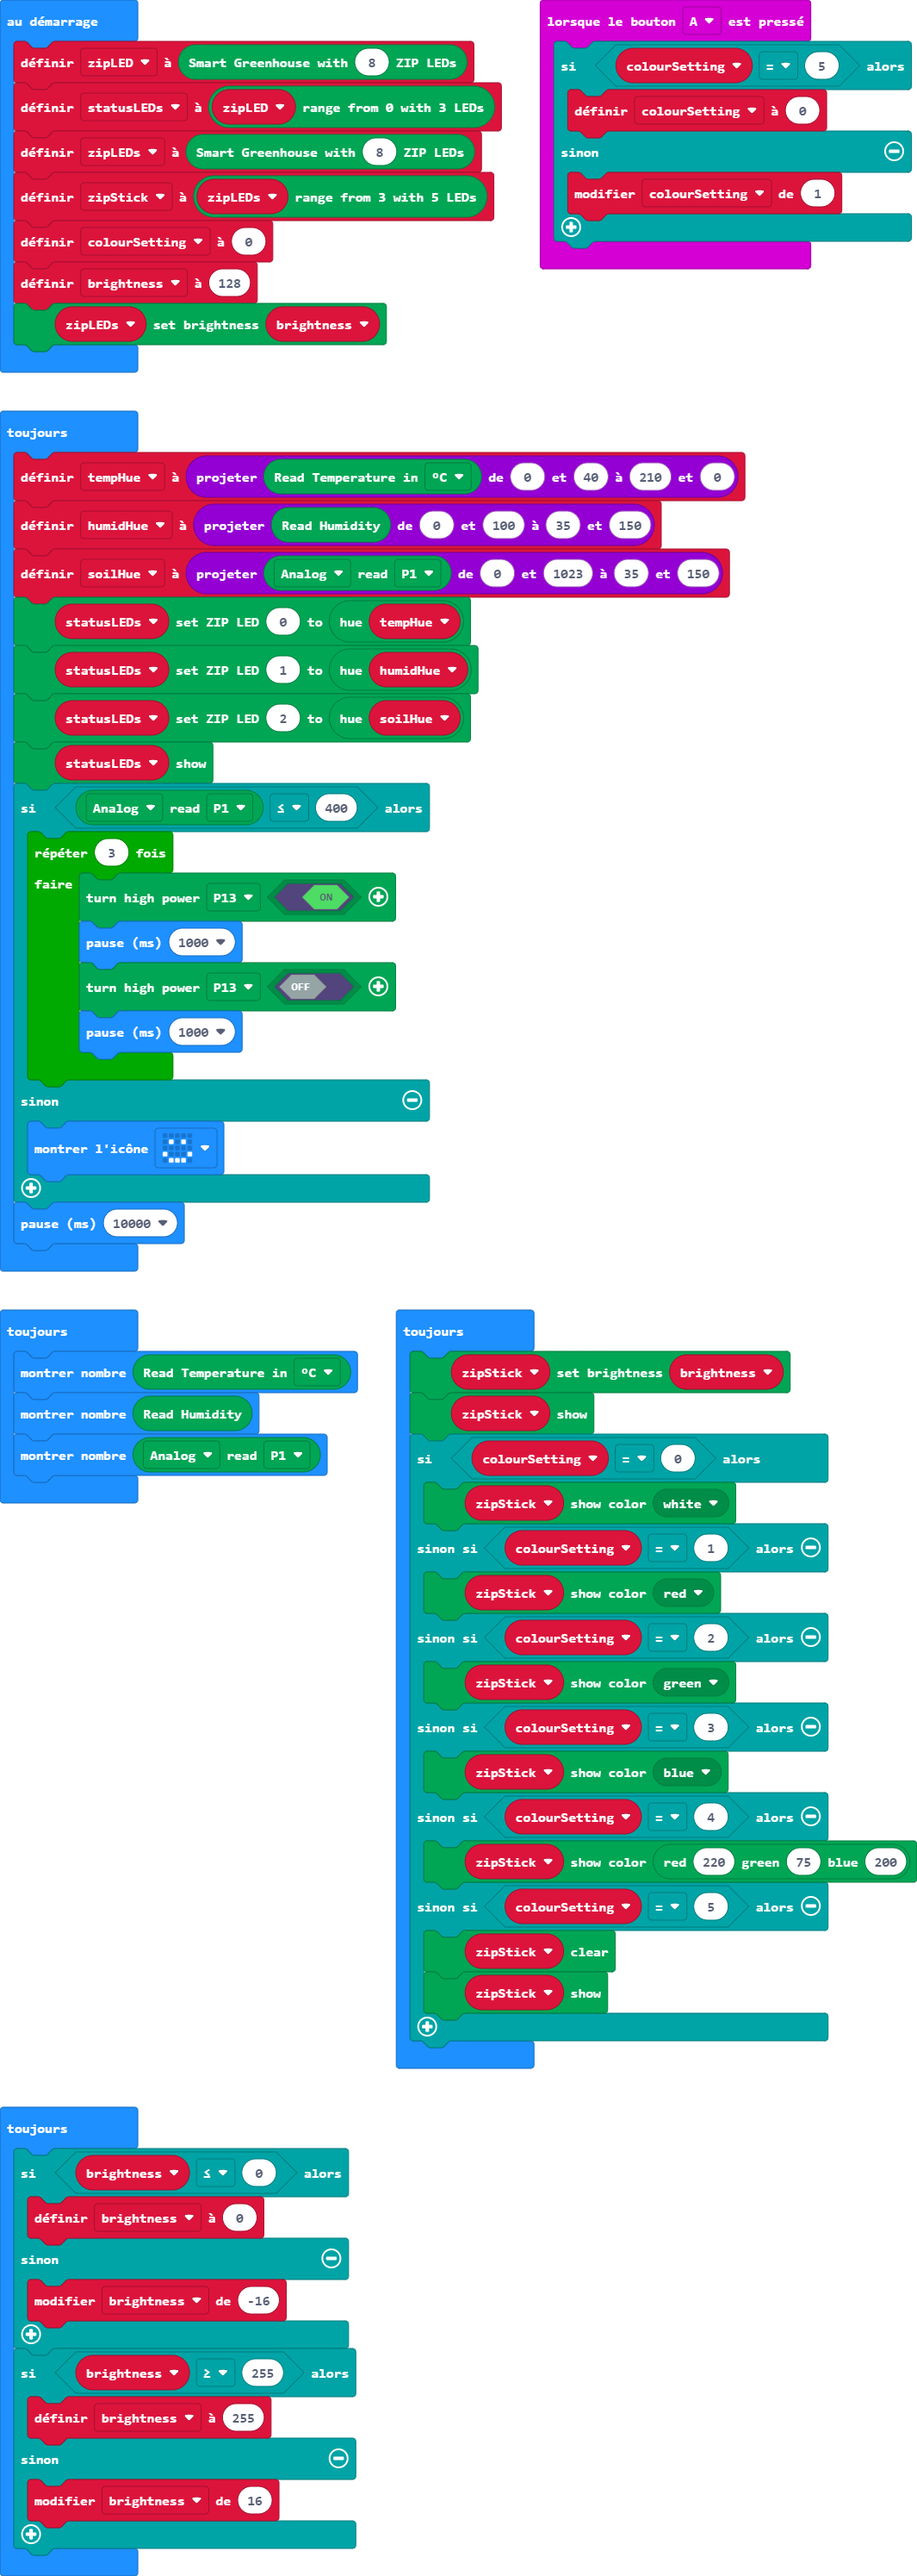
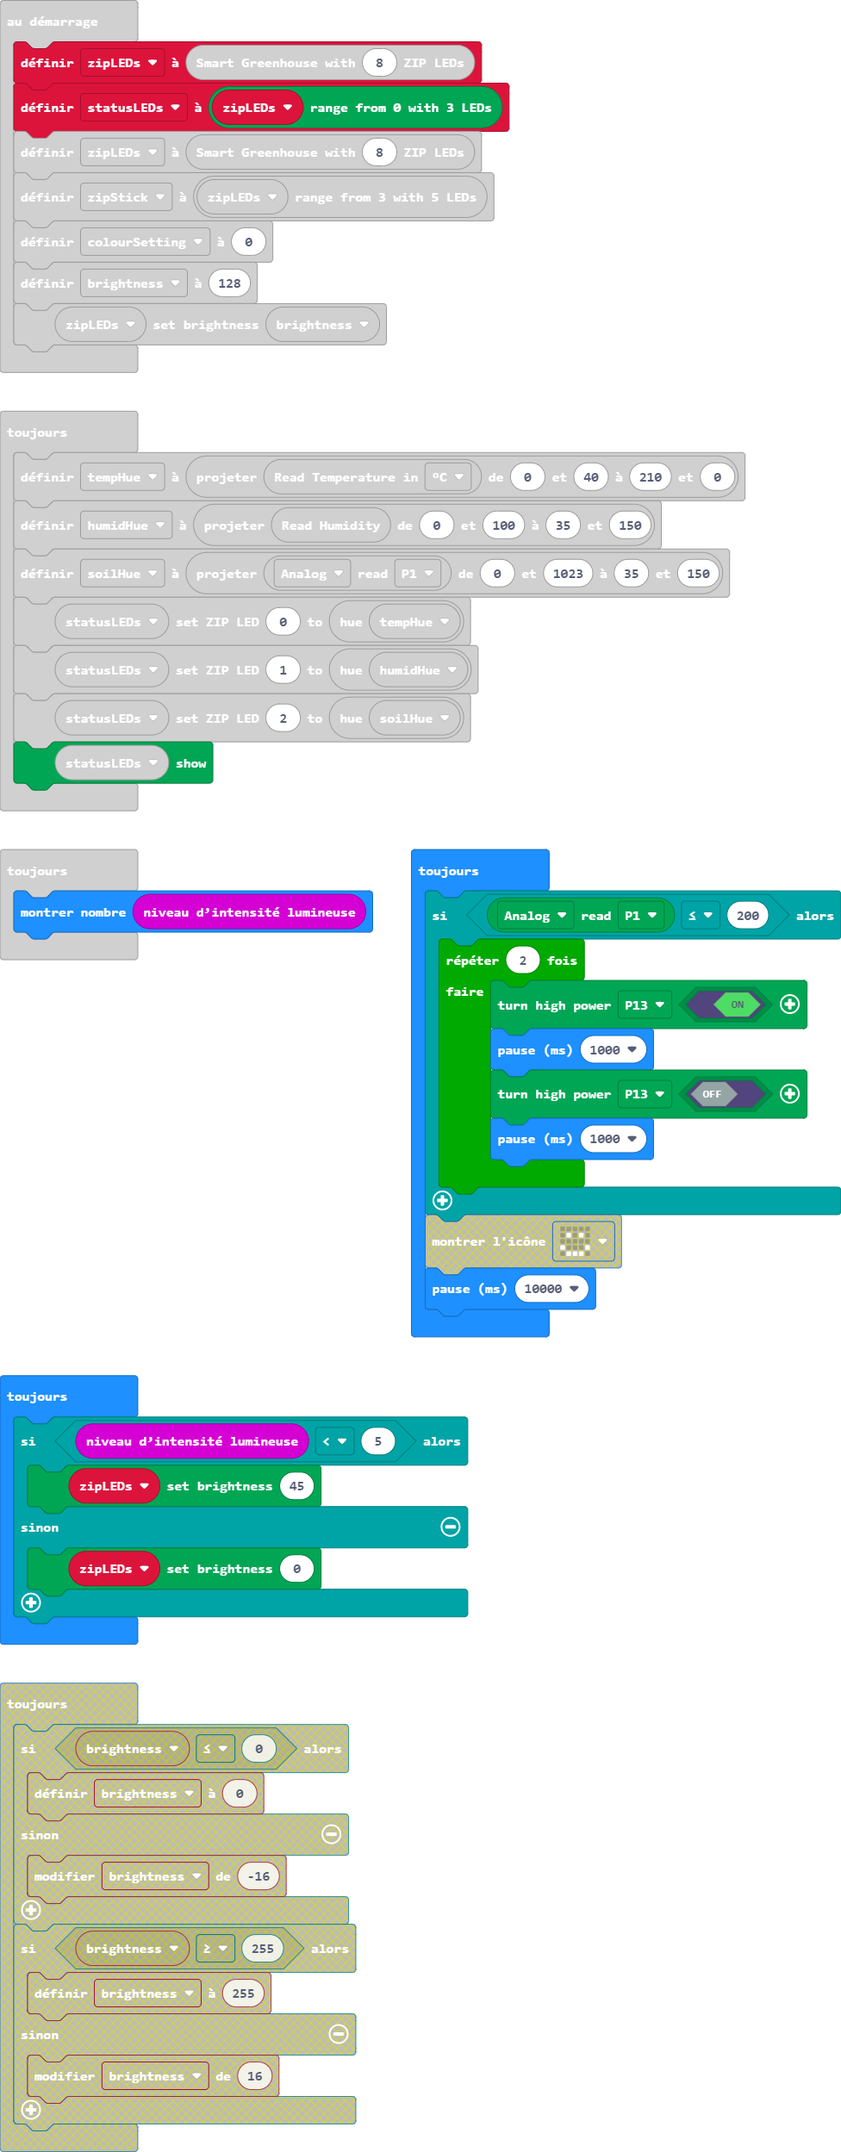
Mise à jour main.blocks, main.ts

diff --git a/main.ts b/main.ts
@@ -9,9 +9,9 @@ let soilHue = 0
 let humidHue = 0
 let tempHue = 0
 let colourSetting = 0
-let zipLED = kitronik_smart_greenhouse.createGreenhouseZIPDisplay(8)
-let statusLEDs = zipLED.statusLedsRange()
 let zipLEDs = kitronik_smart_greenhouse.createGreenhouseZIPDisplay(8)
+let statusLEDs = zipLEDs.statusLedsRange()
+zipLEDs = kitronik_smart_greenhouse.createGreenhouseZIPDisplay(8)
 let zipStick = zipLEDs.zipStickRange()
 colourSetting = 0
 let brightness = 128
@@ -24,22 +24,9 @@ basic.forever(function () {
     statusLEDs.setZipLedColor(1, kitronik_smart_greenhouse.hueToRGB(humidHue))
     statusLEDs.setZipLedColor(2, kitronik_smart_greenhouse.hueToRGB(soilHue))
     statusLEDs.show()
-    if (kitronik_smart_greenhouse.readIOPin(kitronik_smart_greenhouse.PinType.analog, kitronik_smart_greenhouse.IOPins.p1) <= 400) {
-        for (let index = 0; index < 3; index++) {
-            kitronik_smart_greenhouse.controlHighPowerPin(kitronik_smart_greenhouse.HighPowerPins.pin13, kitronik_smart_greenhouse.onOff(true))
-            basic.pause(1000)
-            kitronik_smart_greenhouse.controlHighPowerPin(kitronik_smart_greenhouse.HighPowerPins.pin13, kitronik_smart_greenhouse.onOff(false))
-            basic.pause(1000)
-        }
-    } else {
-        basic.showIcon(IconNames.Happy)
-    }
-    basic.pause(10000)
 })
 basic.forever(function () {
-    basic.showNumber(kitronik_smart_greenhouse.temperature(TemperatureUnitList.C))
-    basic.showNumber(kitronik_smart_greenhouse.humidity())
-    basic.showNumber(kitronik_smart_greenhouse.readIOPin(kitronik_smart_greenhouse.PinType.analog, kitronik_smart_greenhouse.IOPins.p1))
+    basic.showNumber(input.lightLevel())
 })
 basic.forever(function () {
     zipStick.setBrightness(brightness)
@@ -60,14 +47,20 @@ basic.forever(function () {
     }
 })
 basic.forever(function () {
-    if (brightness <= 0) {
-        brightness = 0
-    } else {
-        brightness += -16
+    if (kitronik_smart_greenhouse.readIOPin(kitronik_smart_greenhouse.PinType.analog, kitronik_smart_greenhouse.IOPins.p1) <= 200) {
+        for (let index = 0; index < 2; index++) {
+            kitronik_smart_greenhouse.controlHighPowerPin(kitronik_smart_greenhouse.HighPowerPins.pin13, kitronik_smart_greenhouse.onOff(true))
+            basic.pause(1000)
+            kitronik_smart_greenhouse.controlHighPowerPin(kitronik_smart_greenhouse.HighPowerPins.pin13, kitronik_smart_greenhouse.onOff(false))
+            basic.pause(1000)
+        }
     }
-    if (brightness >= 255) {
-        brightness = 255
+    basic.pause(10000)
+})
+basic.forever(function () {
+    if (input.lightLevel() < 5) {
+        zipLEDs.setBrightness(45)
     } else {
-        brightness += 16
+        zipLEDs.setBrightness(0)
     }
 })
